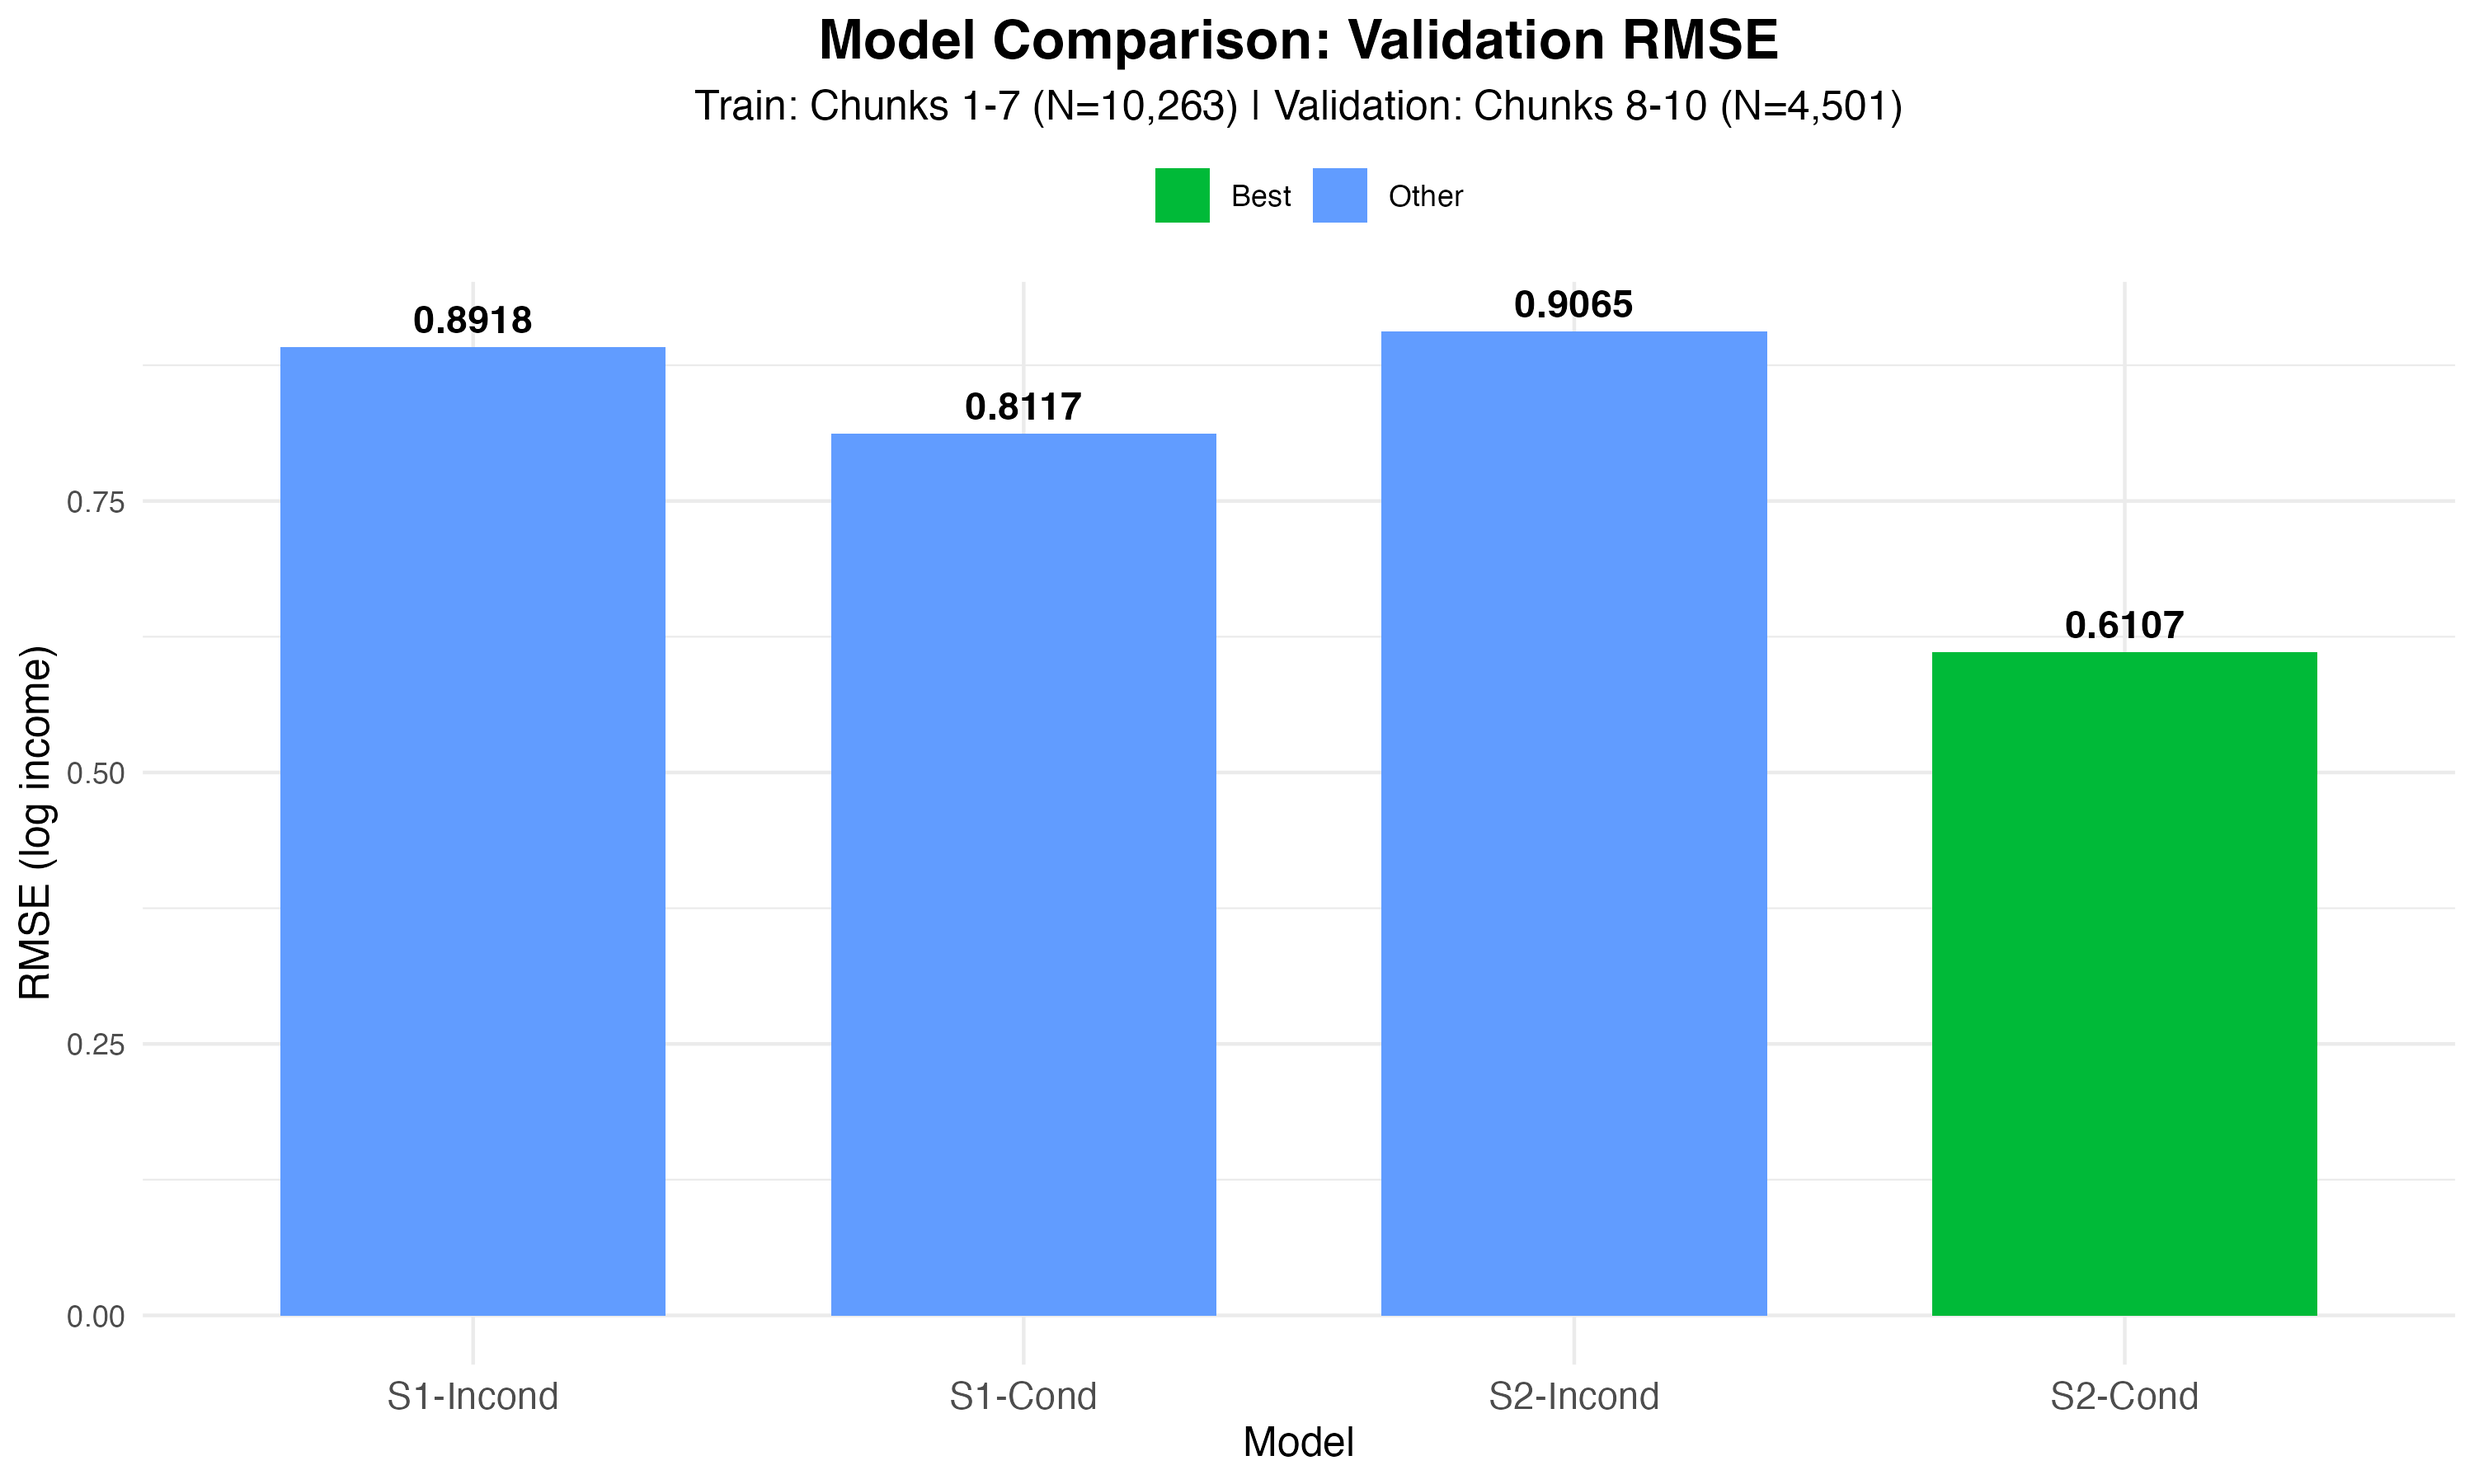
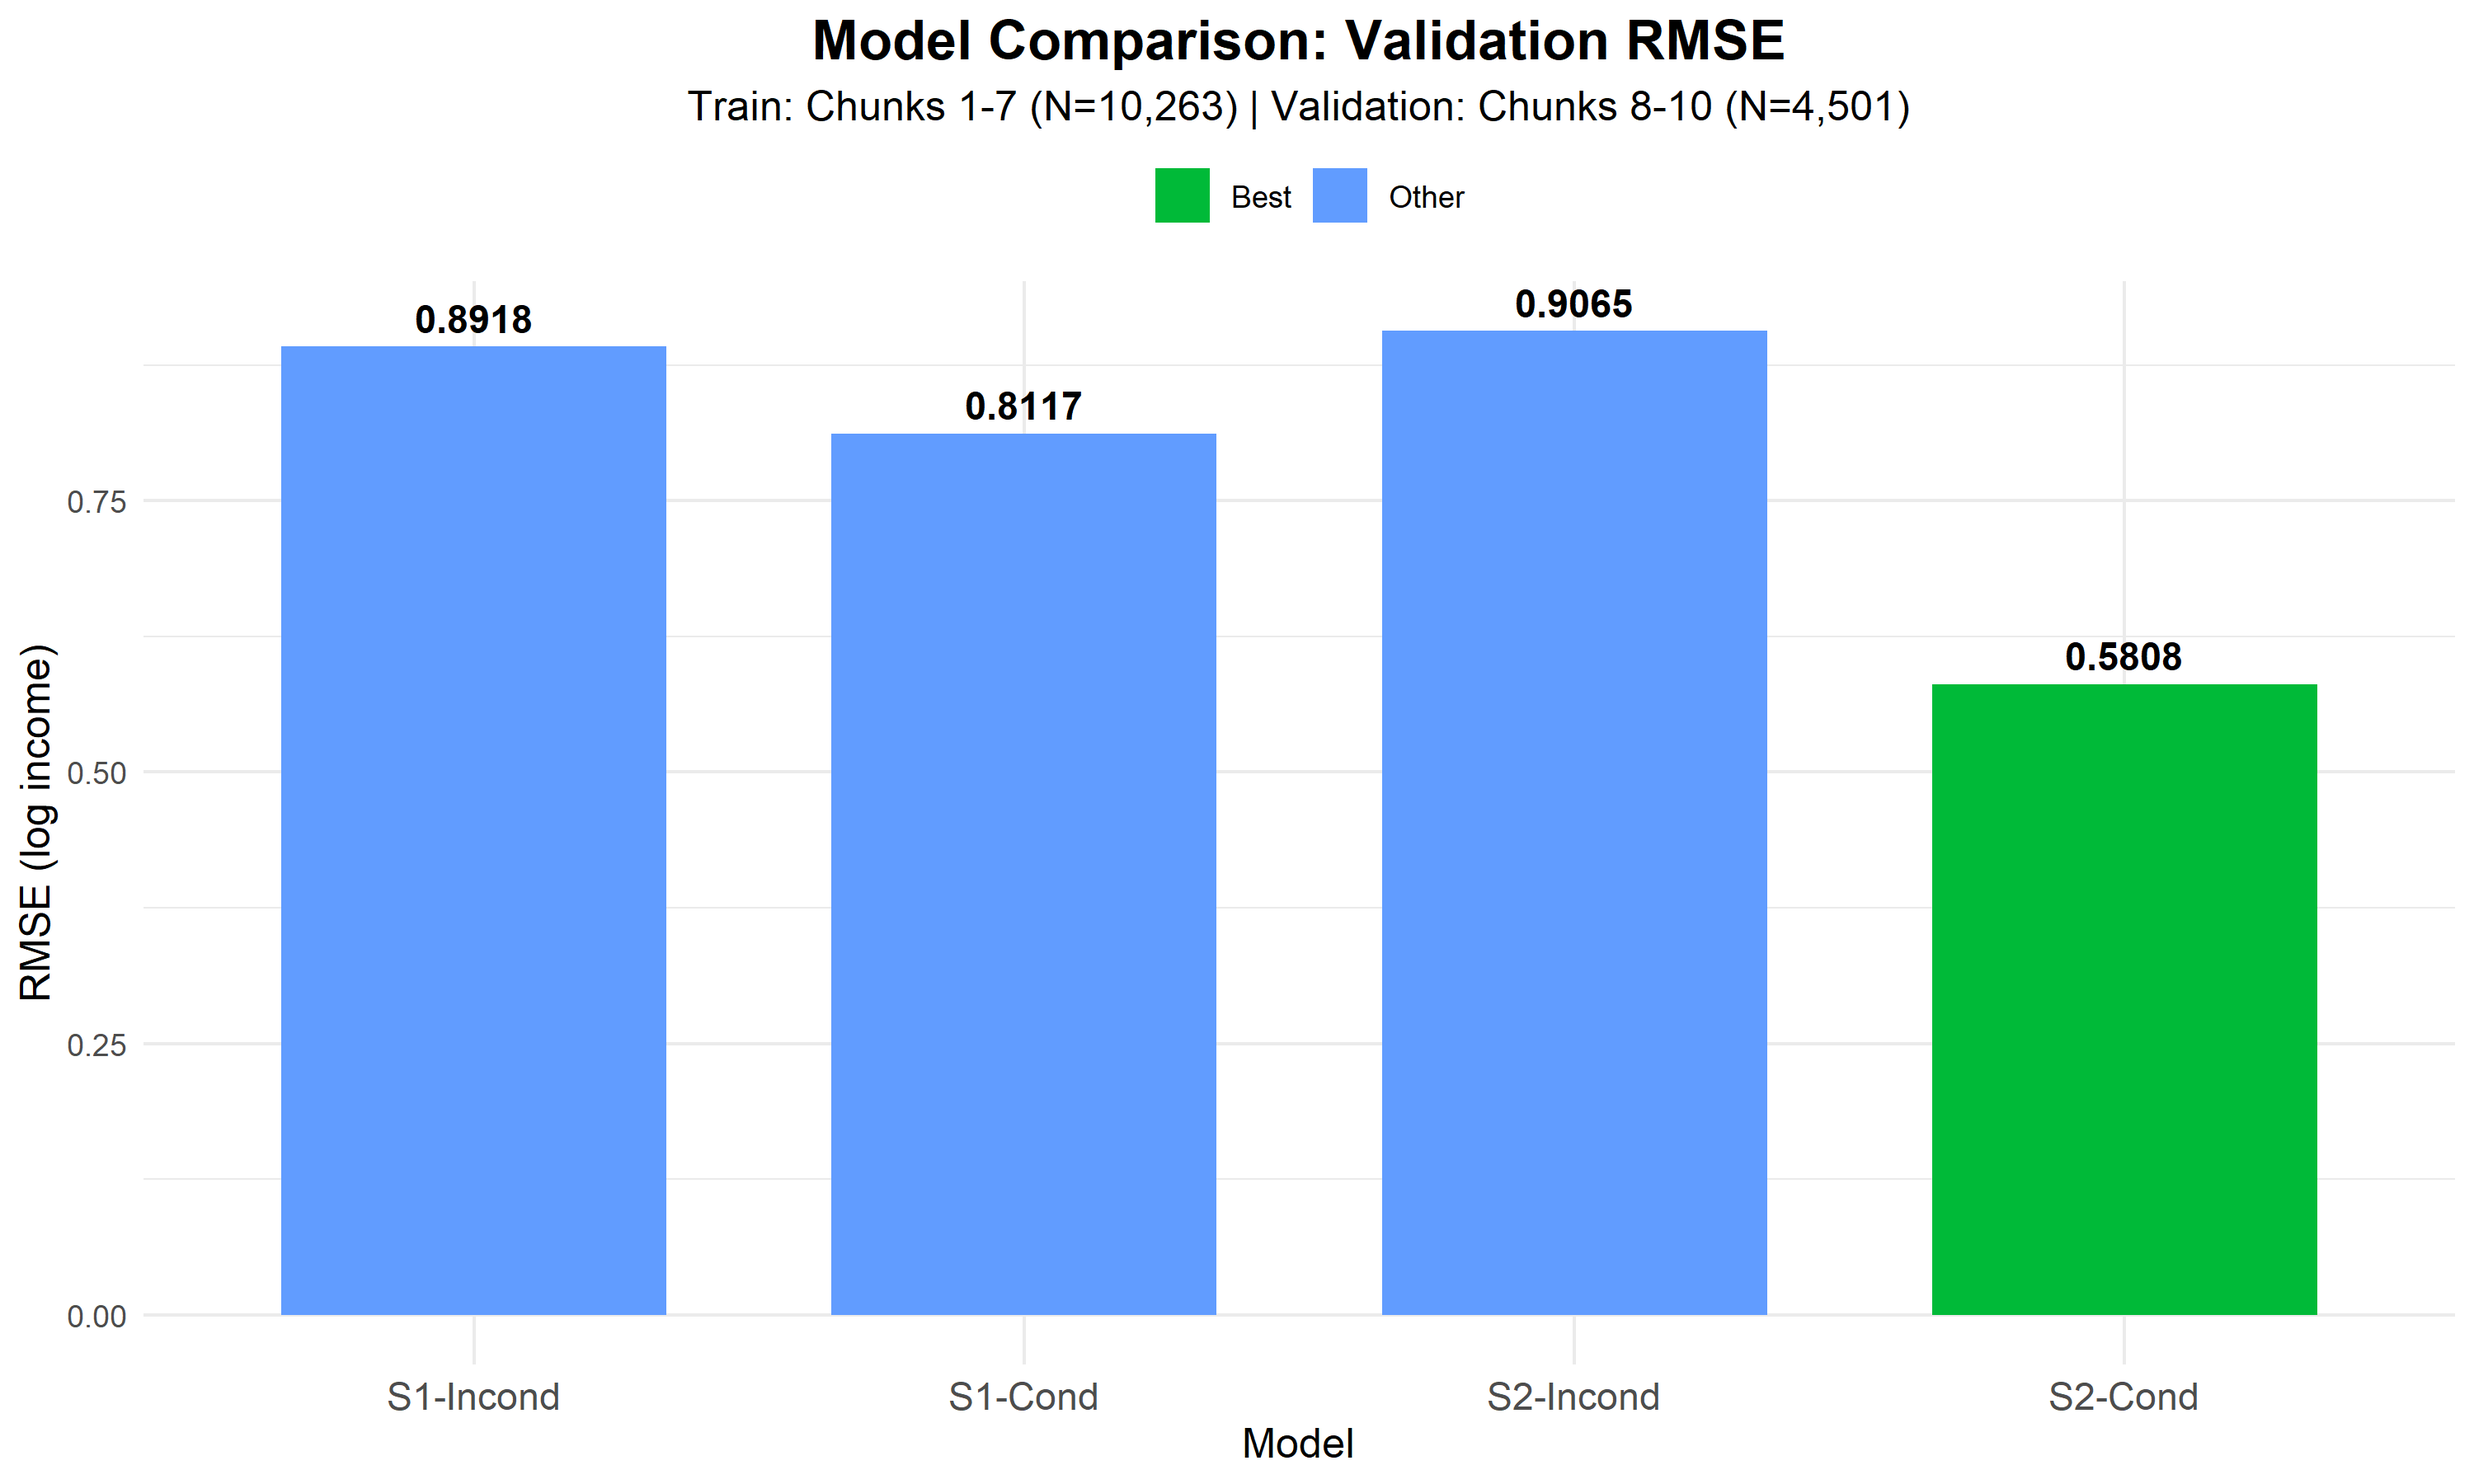
names updated

diff --git a/02_output/tables/03_section3_prediction/model_comparison.tex b/02_output/tables/03_section3_prediction/model_comparison.tex
@@ -1,6 +1,6 @@
 
 % Table created by stargazer v.5.2.3 by Marek Hlavac, Social Policy Institute. E-mail: marek.hlavac at gmail.com
-% Date and time: Thu, Feb 19, 2026 - 00:17:11
+% Date and time: jue, feb. 19, 2026 - 1:09:32 p. m.
 \begin{table}[!htbp] \centering 
   \caption{Model Comparison: Out-of-Sample Predictive Performance} 
   \label{tab:model_comparison} 
@@ -12,7 +12,7 @@ Modelo & R2\_Train & RMSE\_Validation & Best \\
 Sección 1 - Incondicional (age + age²) & $0.0499$ & $0.8918$ &  \\ 
 Sección 1 - Condicional (age + age² + hours + relab) & $0.2323$ & $0.8117$ &  \\ 
 Sección 2 - Incondicional (female) & $0.0171$ & $0.9065$ &  \\ 
-Sección 2 - Condicional (female + controles) & $0.5747$ & $0.6107$ & \textasteriskcentered  \\ 
+Sección 2 - Condicional (female + controles) & $0.6249$ & $0.5808$ & \textasteriskcentered  \\ 
 \hline \\[-1.8ex] 
 \end{tabular} 
 \end{table} 

diff --git a/02_output/tables/02_section2_gendergap_income/peak_ages_section2.tex b/02_output/tables/02_section2_gendergap_income/peak_ages_section2.tex
@@ -1,6 +1,6 @@
 
 % Table created by stargazer v.5.2.3 by Marek Hlavac, Social Policy Institute. E-mail: marek.hlavac at gmail.com
-% Date and time: jue, feb. 19, 2026 - 1:26:40 p. m.
+% Date and time: jue, feb. 19, 2026 - 2:25:45 p. m.
 \begin{table}[!htbp] \centering 
   \caption{Implied Peak Ages by Gender} 
   \label{} 
